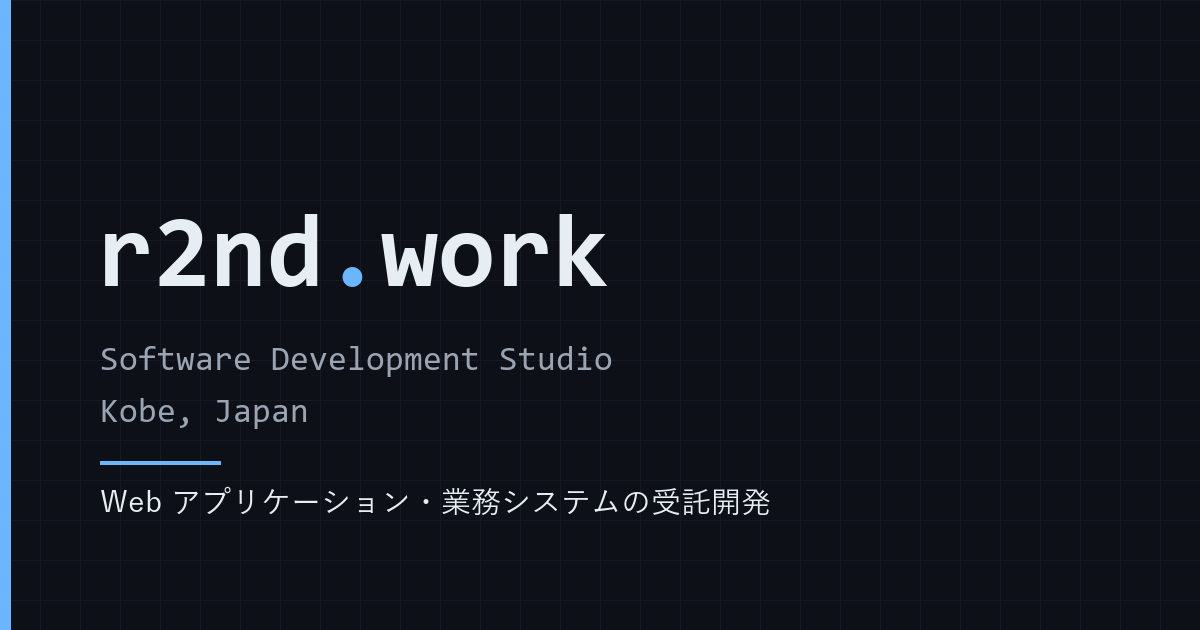
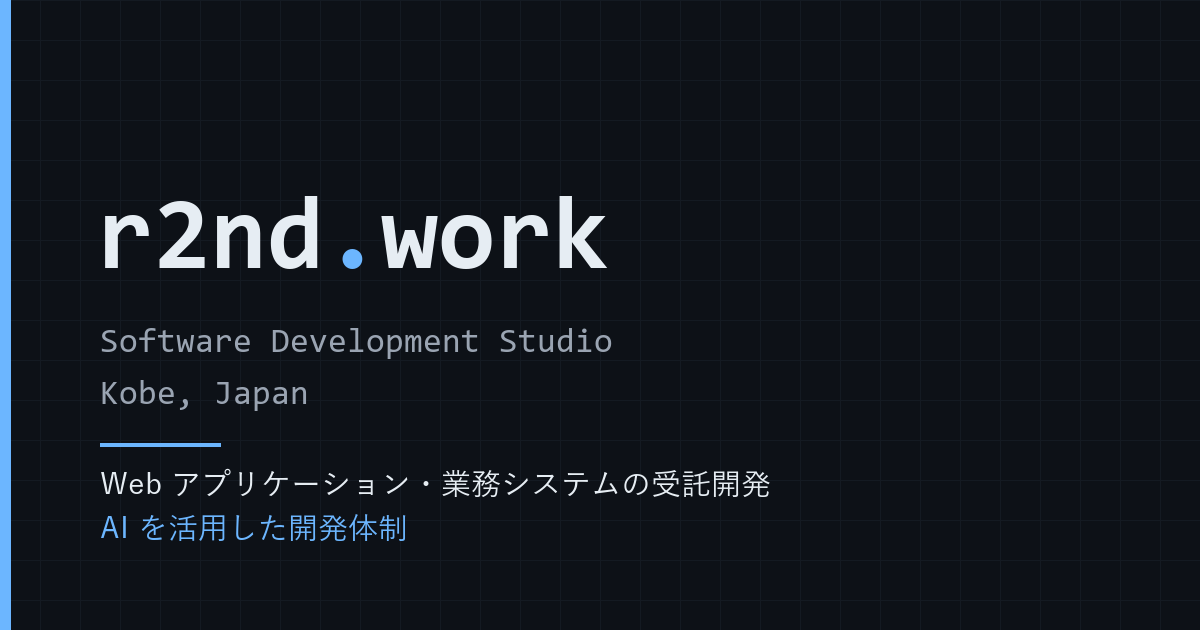
AI活用の説明を追加し、未使用の他社ロゴを削除
- トップページとメタ情報に AI を活用した開発体制の説明を追記
- OGP画像を同内容で再生成
- 未使用だった Twitter / CrowdWorks のロゴSVGを削除

Changed region(s): [[0.0617, 0.5127, 0.5242, 0.8746], [0.0617, 0.3016, 0.5242, 0.4524], [0.37, 0.7238, 0.6475, 0.8143]]

diff --git a/index.html b/index.html
@@ -4,13 +4,13 @@
   <meta charset="UTF-8">
   <meta name="viewport" content="width=device-width, initial-scale=1">
   <title>r2nd.work | 神戸のソフトウェア開発スタジオ</title>
-  <meta name="description" content="r2nd.work は兵庫県神戸市のソフトウェア開発スタジオです。Web アプリケーションや業務システムの受託開発を承っています。案件のご相談はお問い合わせフォームまたは各クラウドソーシングサービスから。">
+  <meta name="description" content="r2nd.work は兵庫県神戸市のソフトウェア開発スタジオです。Web アプリケーションや業務システムの受託開発を承っています。設計から実装まで AI を活用した開発体制で、短い期間でのご提供に対応します。">
   <link rel="canonical" href="https://r2nd.work/">
 
   <meta property="og:type" content="website">
   <meta property="og:site_name" content="r2nd.work">
   <meta property="og:title" content="r2nd.work | 神戸のソフトウェア開発スタジオ">
-  <meta property="og:description" content="兵庫県神戸市のソフトウェア開発スタジオ。Web アプリケーションや業務システムの受託開発を承っています。">
+  <meta property="og:description" content="兵庫県神戸市のソフトウェア開発スタジオ。AI を活用した開発体制で、Web アプリケーションや業務システムの受託開発を承っています。">
   <meta property="og:url" content="https://r2nd.work/">
   <meta property="og:image" content="https://r2nd.work/images/ogp.png">
   <meta property="og:locale" content="ja_JP">
@@ -27,6 +27,10 @@
       <p class="tagline">
         <span class="en">Software Development Studio &mdash; Kobe, Japan</span>
         兵庫県神戸市を拠点に、Web アプリケーションや業務システムの受託開発を行っています。
+      </p>
+      <p class="tagline">
+        設計から実装、テストに至るまで開発プロセス全体に AI を取り入れており、
+        従来より短い期間・少ない工数でのご提供に対応しています。
       </p>
     </header>
 
